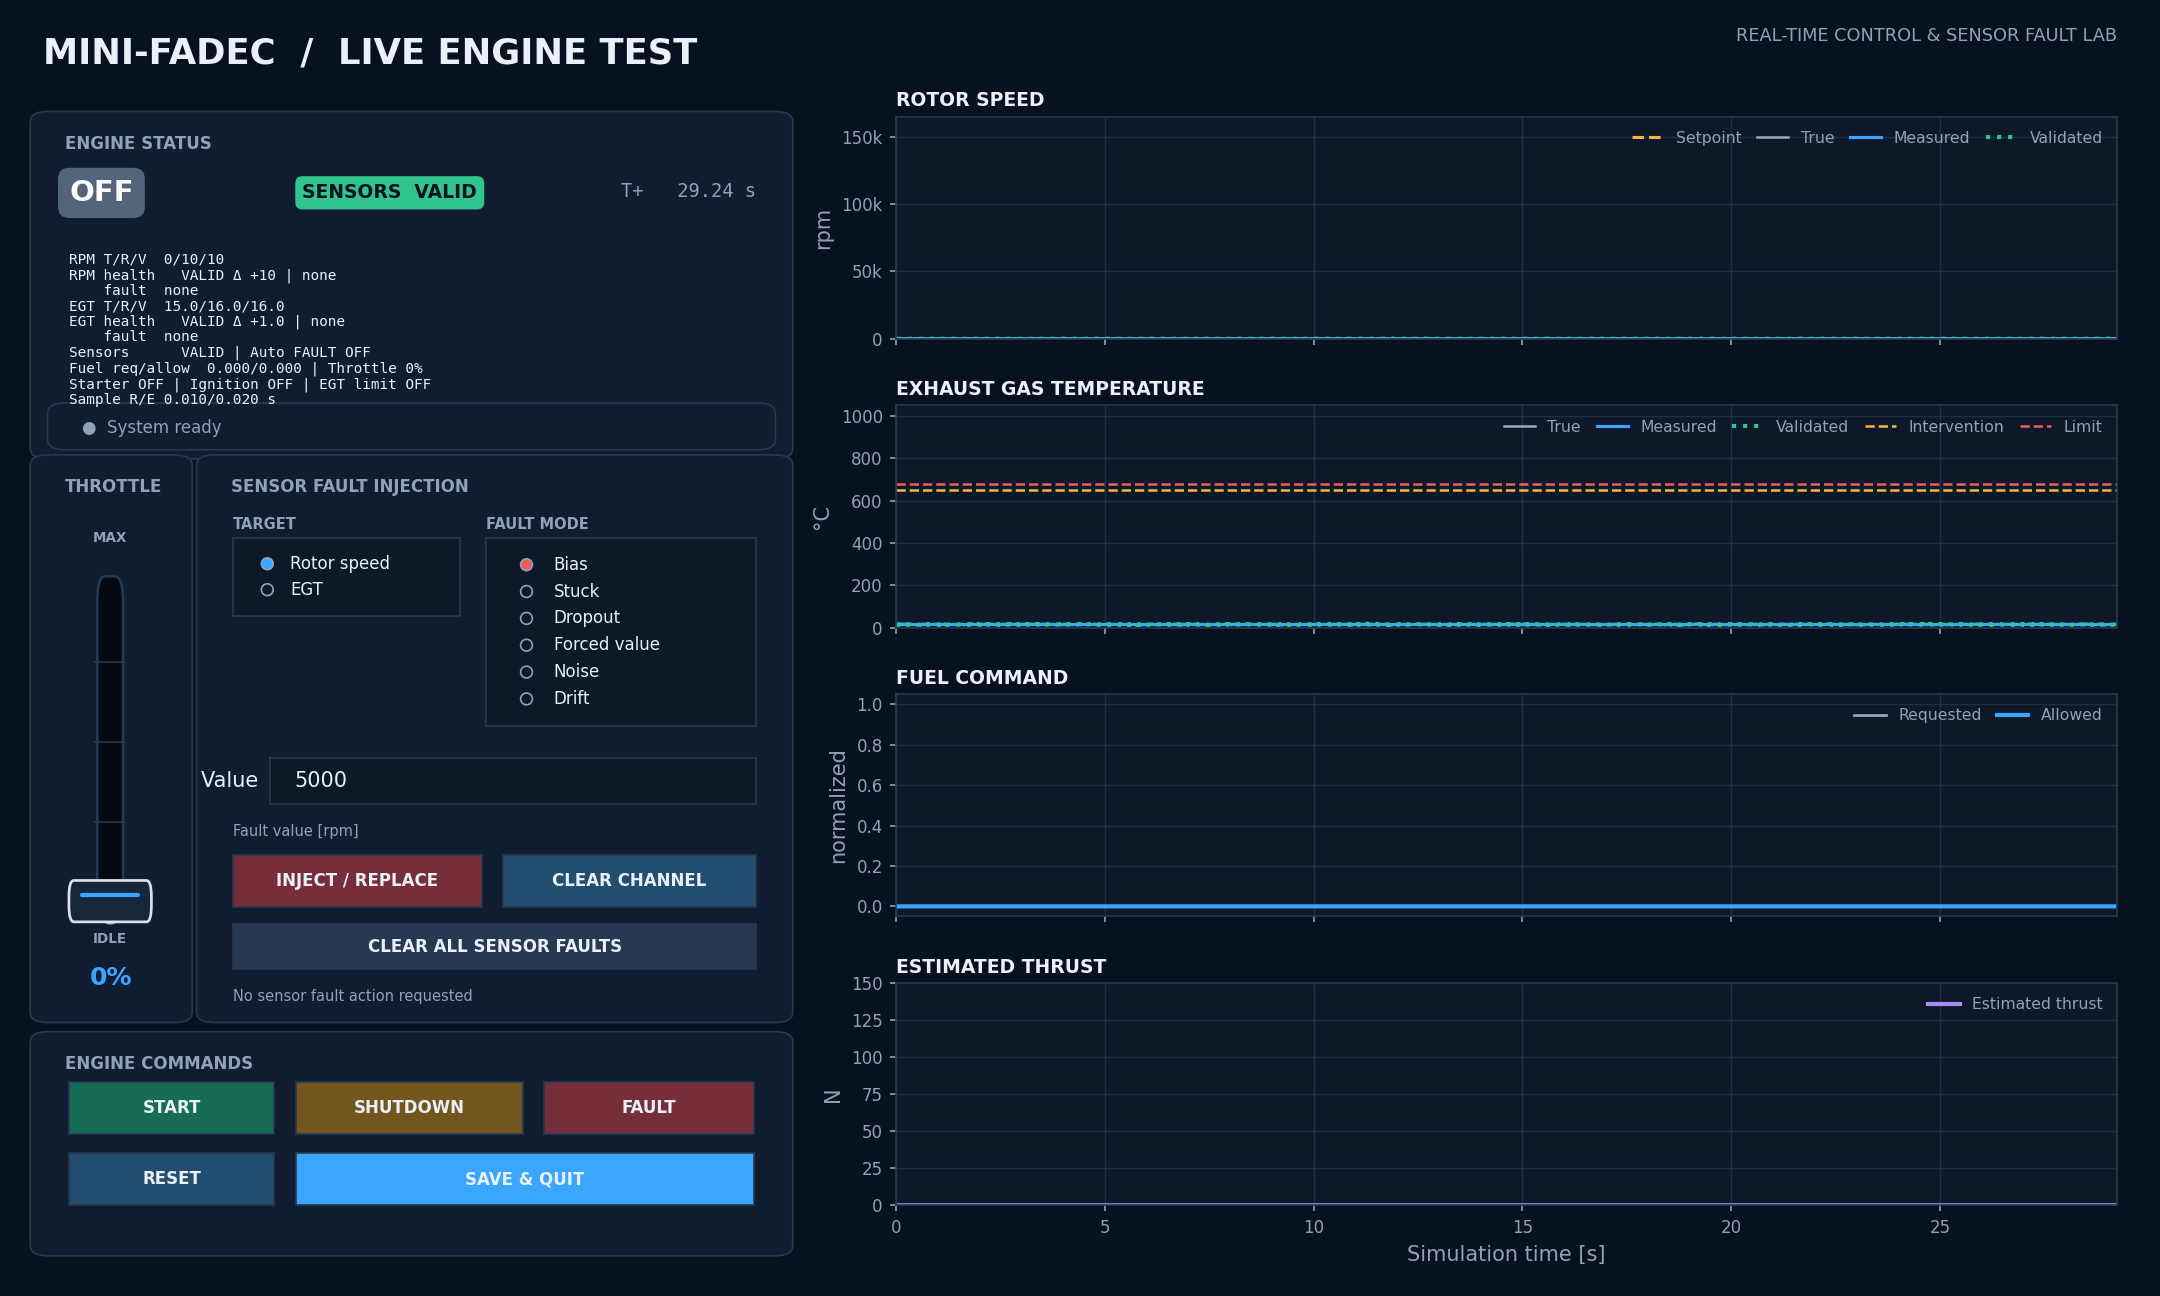
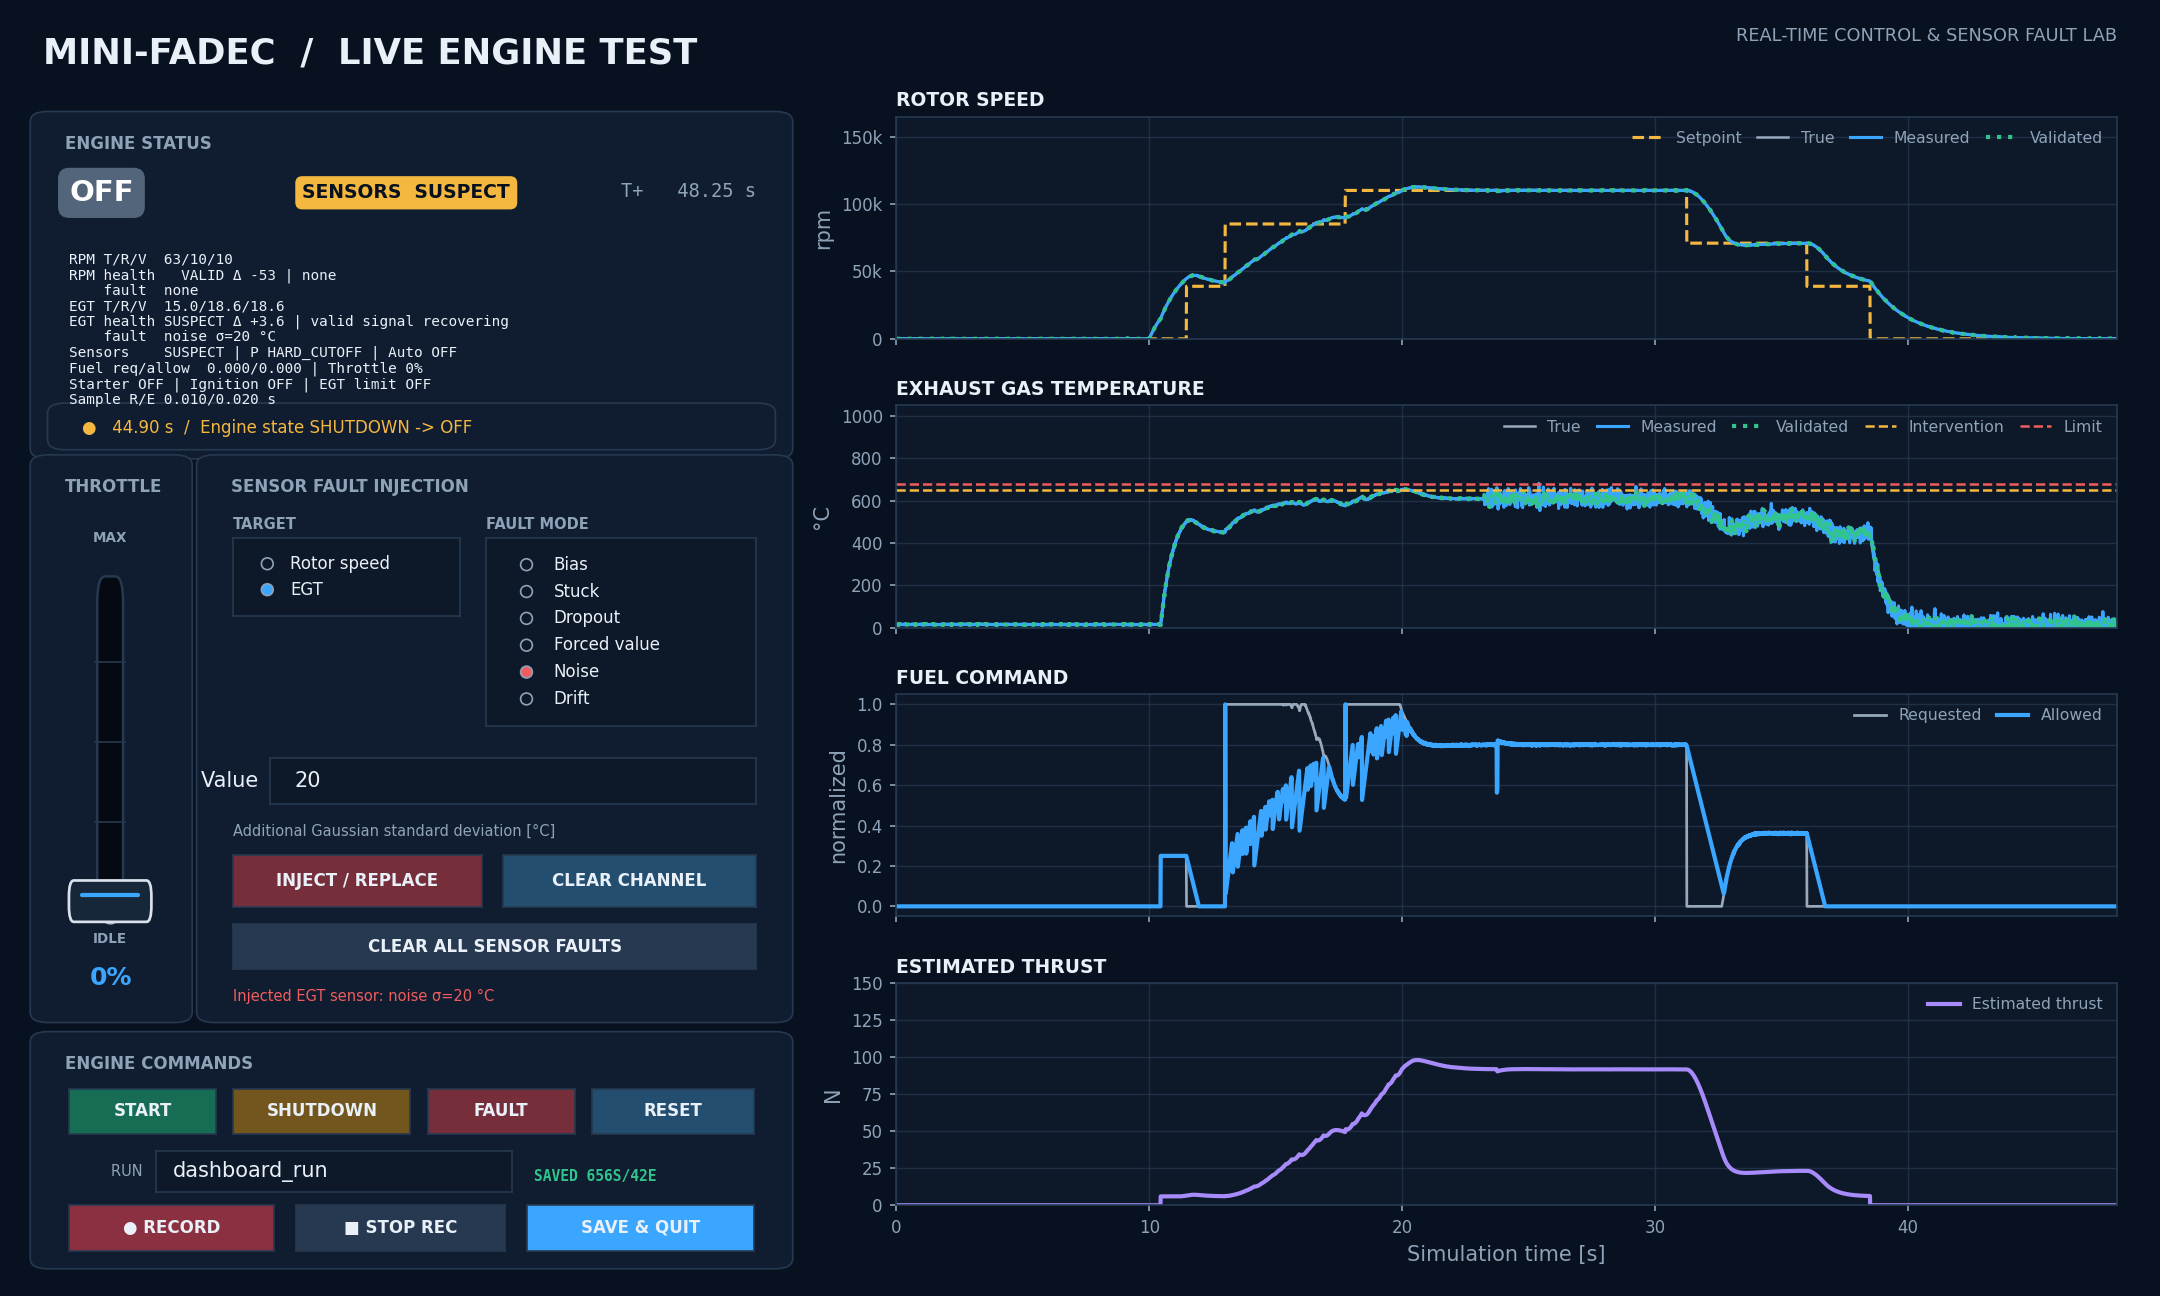
feat: add dashboard run recording controls

diff --git a/simulation/application/live_dashboard.py b/simulation/application/live_dashboard.py
@@ -102,6 +102,7 @@ class LiveEngineDashboard:
 
         if self._closed:
             return
+        self._finalize_dashboard_recording()
         if save_result:
             self.save_figure()
         self._closed = True
@@ -258,37 +259,78 @@ class LiveEngineDashboard:
             color=self._ACCENT_COLOR,
         )
 
-        self._add_panel((0.018, 0.035, 0.345, 0.165), "ENGINE COMMANDS")
+        self._add_panel((0.018, 0.025, 0.345, 0.175), "ENGINE COMMANDS")
 
         self._start_button = self._create_button(
-            bounds=(0.032, 0.125, 0.095, 0.04),
+            bounds=(0.032, 0.125, 0.068, 0.035),
             label="START",
             color="#176c54",
             callback=self._on_start,
         )
         self._shutdown_button = self._create_button(
-            bounds=(0.137, 0.125, 0.105, 0.04),
+            bounds=(0.108, 0.125, 0.082, 0.035),
             label="SHUTDOWN",
             color="#72561d",
             callback=self._on_shutdown,
         )
         self._fault_button = self._create_button(
-            bounds=(0.252, 0.125, 0.097, 0.04),
+            bounds=(0.198, 0.125, 0.068, 0.035),
             label="FAULT",
             color="#762f3a",
             callback=self._on_fault,
         )
         self._reset_button = self._create_button(
-            bounds=(0.032, 0.070, 0.095, 0.04),
+            bounds=(0.274, 0.125, 0.075, 0.035),
             label="RESET",
             color="#234e70",
             callback=self._on_reset,
         )
+        self._create_recording_controls()
         self._quit_button = self._create_button(
-            bounds=(0.137, 0.070, 0.212, 0.04),
+            bounds=(0.244, 0.035, 0.105, 0.035),
             label="SAVE & QUIT",
             color="#263950",
             callback=self._on_quit,
+        )
+
+    def _create_recording_controls(self) -> None:
+        """Create dashboard-native run recording controls and status."""
+
+        run_name_axis = self._figure.add_axes((0.072, 0.080, 0.165, 0.032))
+        self._style_widget_axis(run_name_axis)
+        self._recording_run_name_text_box = TextBox(
+            run_name_axis,
+            "RUN  ",
+            initial="dashboard_run",
+            color=self._PLOT_COLOR,
+            hovercolor="#15263d",
+        )
+        self._recording_run_name_text_box.label.set_color(
+            self._MUTED_TEXT_COLOR
+        )
+        self._recording_run_name_text_box.label.set_fontsize(7)
+        self._recording_run_name_text_box.text_disp.set_color(self._TEXT_COLOR)
+
+        self._recording_status_text = self._figure.text(
+            0.247,
+            0.089,
+            "REC OFF",
+            fontsize=7,
+            fontweight="bold",
+            family="monospace",
+            color=self._MUTED_TEXT_COLOR,
+        )
+        self._recording_start_button = self._create_button(
+            bounds=(0.032, 0.035, 0.095, 0.035),
+            label="● RECORD",
+            color="#8a3041",
+            callback=self._on_start_recording,
+        )
+        self._recording_stop_button = self._create_button(
+            bounds=(0.137, 0.035, 0.097, 0.035),
+            label="■ STOP REC",
+            color="#263950",
+            callback=self._on_stop_recording,
         )
 
     def _create_throttle_lever(self, axis: Axes) -> None:
@@ -779,6 +821,7 @@ class LiveEngineDashboard:
             axis.set_xlim(window_start_s, window_end_s)
 
         self._update_status(snapshot)
+        self._update_recording_status()
         self._figure.canvas.draw_idle()
 
     def _update_status(self, snapshot: EngineSimulationSnapshot) -> None:
@@ -950,6 +993,93 @@ class LiveEngineDashboard:
 
         self.dashboard_simulation.controls.request_reset()
 
+    def _on_start_recording(self, _event: object) -> None:
+        """Start recording using the run name entered in the dashboard."""
+
+        run_name = self._recording_run_name_text_box.text.strip() or None
+        try:
+            run_directory = self.dashboard_simulation.service.start_recording(
+                run_name
+            )
+        except (OSError, RuntimeError) as error:
+            self._set_recording_feedback(
+                f"Recording error: {error}",
+                self._DANGER_COLOR,
+            )
+            return
+        self._set_recording_feedback(
+            f"Recording started  /  {run_directory.name}",
+            self._DANGER_COLOR,
+        )
+        self._update_recording_status()
+
+    def _on_stop_recording(self, _event: object) -> None:
+        """Finalize the active dashboard recording safely."""
+
+        try:
+            summary = self.dashboard_simulation.service.stop_recording()
+        except OSError as error:
+            self._set_recording_feedback(
+                f"Recording stop error: {error}",
+                self._DANGER_COLOR,
+            )
+            return
+        if summary is None:
+            self._set_recording_feedback(
+                "No recording is active",
+                self._MUTED_TEXT_COLOR,
+            )
+        else:
+            self._set_recording_feedback(
+                "Recording saved  /  "
+                f"{summary.telemetry_sample_count} samples  /  "
+                f"{summary.event_count} events",
+                self._SUCCESS_COLOR,
+            )
+        self._update_recording_status()
+
+    def _update_recording_status(self) -> None:
+        """Refresh recording activity and persisted row counters."""
+
+        service = self.dashboard_simulation.service
+        status = service.get_recording_status()
+        if status is None:
+            status_text = "REC OFF"
+            status_color = self._MUTED_TEXT_COLOR
+        elif service.recorder.is_recording:
+            status_text = (
+                f"● REC {status.telemetry_sample_count}S/"
+                f"{status.event_count}E"
+            )
+            status_color = self._DANGER_COLOR
+        else:
+            status_text = (
+                f"SAVED {status.telemetry_sample_count}S/"
+                f"{status.event_count}E"
+            )
+            status_color = self._SUCCESS_COLOR
+        self._recording_status_text.set_text(status_text)
+        self._recording_status_text.set_color(status_color)
+
+    def _set_recording_feedback(self, message: str, color: str) -> None:
+        """Show immediate recording feedback in the system event field."""
+
+        self._transition_text.set_text(f"●  {message}")
+        self._transition_text.set_color(color)
+        self._figure.canvas.draw_idle()
+
+    def _finalize_dashboard_recording(self) -> None:
+        """Close an active recording when the dashboard itself closes."""
+
+        try:
+            self.dashboard_simulation.service.close(completed=True)
+        except OSError as error:
+            self._set_recording_feedback(
+                f"Recording cleanup error: {error}",
+                self._DANGER_COLOR,
+            )
+        self._update_recording_status()
+
     def _on_quit(self, _event: object) -> None:
         """Save the final view and close the dashboard."""
 
@@ -960,6 +1090,7 @@ class LiveEngineDashboard:
 
         if self._closed:
             return
+        self._finalize_dashboard_recording()
         self.save_figure()
         self._closed = True
         self._timer.stop()

diff --git a/tests/unit/test_live_dashboard.py b/tests/unit/test_live_dashboard.py
@@ -1,5 +1,7 @@
 """Headless unit tests for the Matplotlib live engine dashboard."""
 
+from datetime import datetime, timezone
+import json
 from pathlib import Path
 
 import matplotlib
@@ -9,6 +11,8 @@ from matplotlib.colors import to_rgba
 matplotlib.use("Agg")
 
 from simulation.application.live_dashboard import LiveEngineDashboard  # noqa: E402
+from simulation.application.dashboard_model import DashboardSimulation  # noqa: E402
+from simulation.application.simulation_service import SimulationService  # noqa: E402
 from simulation.operation.engine_state import EngineOperatingState  # noqa: E402
 from simulation.sensors.fault_injection import (  # noqa: E402
     BiasSensorFault,
@@ -17,6 +21,23 @@ from simulation.sensors.fault_injection import (  # noqa: E402
     SensorChannel,
 )
 from simulation.validation.sensor_validation import ChannelHealth  # noqa: E402
+from simulation.telemetry.metadata import GitMetadata  # noqa: E402
+from simulation.telemetry.recorder import (  # noqa: E402
+    RunRecorder,
+    RunRecorderParameters,
+)
+
+
+def _recording_dashboard(tmp_path: Path) -> LiveEngineDashboard:
+    recorder = RunRecorder(
+        RunRecorderParameters(base_directory=tmp_path),
+        wall_clock=lambda: datetime(2026, 7, 20, tzinfo=timezone.utc),
+        git_metadata_provider=lambda _: GitMetadata(),
+    )
+    service = SimulationService(recorder=recorder)
+    return LiveEngineDashboard(
+        dashboard_simulation=DashboardSimulation(service=service)
+    )
 
 
 def test_dashboard_advances_and_refreshes_live_signals() -> None:
@@ -238,3 +259,57 @@ def test_dashboard_reports_invalid_fault_input_without_raising(
         "Invalid fault input:"
     )
     dashboard.close(save_result=False)
+
+
+def test_dashboard_starts_and_stops_named_recording(tmp_path: Path) -> None:
+    dashboard = _recording_dashboard(tmp_path)
+    dashboard._recording_run_name_text_box.set_val("dashboard test")
+
+    dashboard._on_start_recording(None)
+    dashboard.advance_and_refresh(0.12)
+
+    service = dashboard.dashboard_simulation.service
+    active_status = service.get_recording_status()
+    assert active_status is not None
+    assert service.recorder.is_recording
+    assert active_status.run_name == "dashboard_test"
+    assert dashboard._recording_status_text.get_text().startswith("● REC")
+
+    dashboard._on_stop_recording(None)
+
+    final_status = service.get_recording_status()
+    assert final_status is not None
+    assert service.recorder.is_recording is False
+    assert final_status.telemetry_sample_count == 3
+    assert final_status.event_count == 2
+    assert dashboard._recording_status_text.get_text().startswith("SAVED")
+    assert (final_status.run_directory / "telemetry.csv").is_file()
+    assert (final_status.run_directory / "events.csv").is_file()
+    dashboard.close(save_result=False)
+
+
+def test_dashboard_reports_duplicate_recording_start_without_crashing(
+    tmp_path: Path,
+) -> None:
+    dashboard = _recording_dashboard(tmp_path)
+    dashboard._on_start_recording(None)
+
+    dashboard._on_start_recording(None)
+
+    assert "already active" in dashboard._transition_text.get_text()
+    dashboard.close(save_result=False)
+
+
+def test_dashboard_close_finalizes_active_recording(tmp_path: Path) -> None:
+    dashboard = _recording_dashboard(tmp_path)
+    dashboard._on_start_recording(None)
+    service = dashboard.dashboard_simulation.service
+    run_directory = service.recorder.current_run_directory
+    assert run_directory is not None
+
+    dashboard.close(save_result=False)
+
+    with (run_directory / "metadata.json").open(encoding="utf-8") as file:
+        metadata = json.load(file)
+    assert service.recorder.is_recording is False
+    assert metadata["completion_status"] == "complete"

diff --git a/docs/architecture/simulation_architecture.md b/docs/architecture/simulation_architecture.md
@@ -268,6 +268,11 @@ use the same in-process interface or add a narrow transport adapter around it;
 the UI must not calculate control values, decide transitions, parse terminal
 text, or read component internals.
 
+The current live dashboard uses this service directly. Its run-name field and
+record/stop buttons control the same recorder lifecycle as the terminal, show
+live sample and event counts, and finalize an active recording when the
+dashboard window closes.
+
 ### Telemetry and event schemas
 
 Snapshot serialization uses an explicit ordered `TELEMETRY_FIELDS` schema.